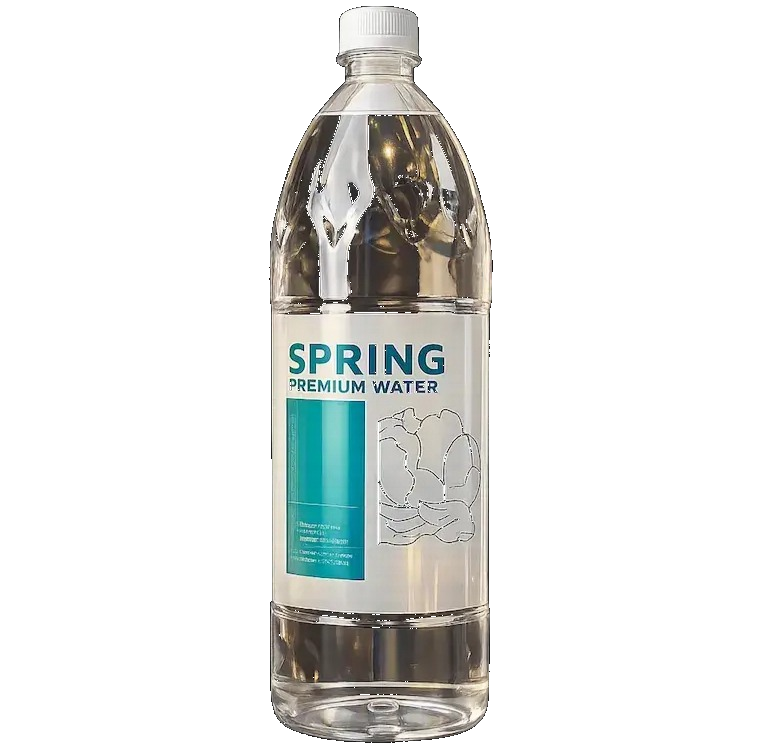
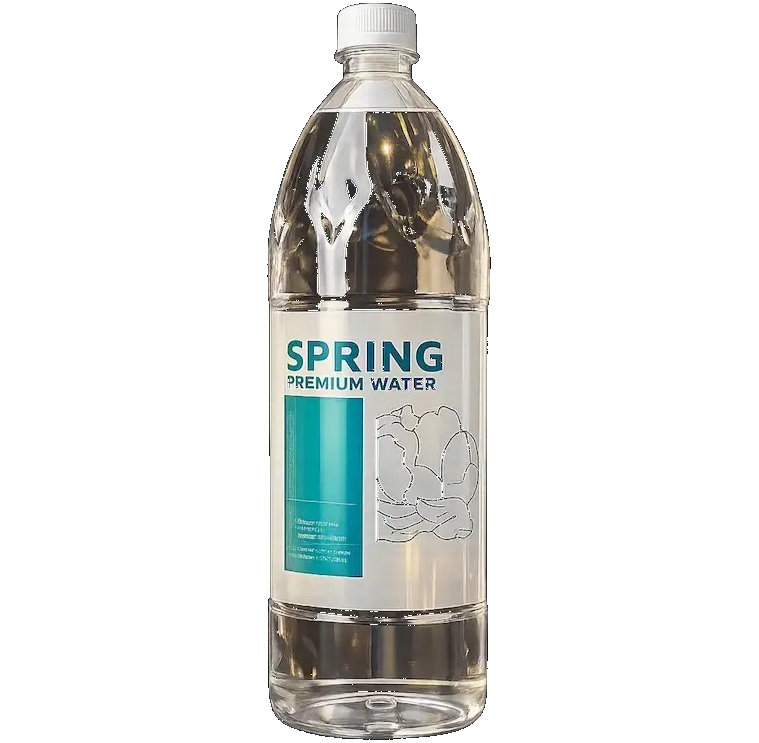
img update

Changed region(s): [[0.3333, 0.0, 0.6667, 1.0]]

diff --git a/src/components/Hero.jsx b/src/components/Hero.jsx
@@ -58,7 +58,7 @@ export default function Hero() {
             className="absolute bottom-0 right-0 left-0 flex justify-center lg:justify-end pointer-events-none"
           >
             <Image
-              src="/images/springtopbottle.webp"
+              src="/images/springtopbottle.png"
               alt="Premium Mineral Water Bottle"
               width={420}
               height={300}
